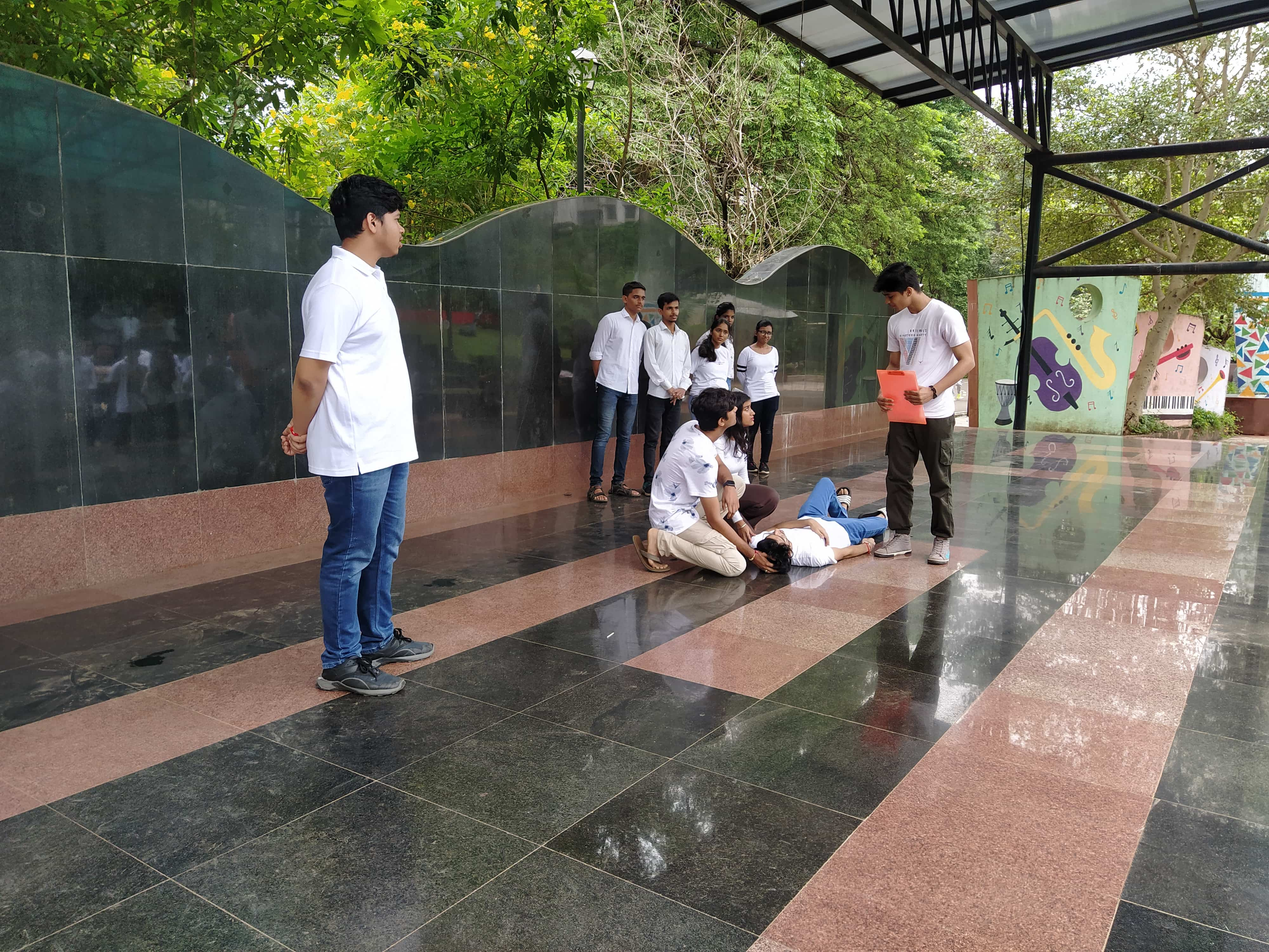
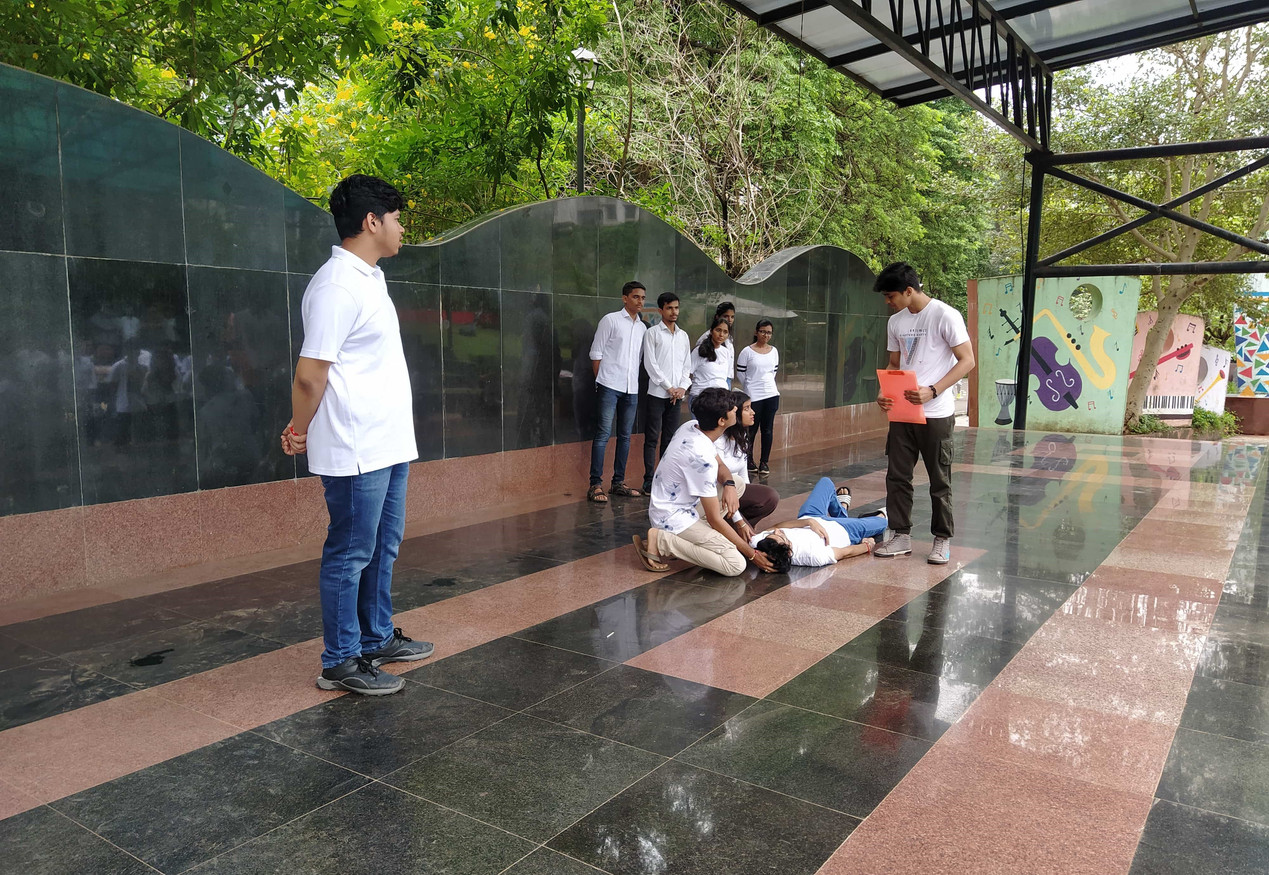
resized images

diff --git a/src/assets/projects/index.js b/src/assets/projects/index.js
@@ -275,7 +275,8 @@ const Images = {
   PubAwareness: require("./procard_Public Awareness Campaign 01 (Society).jpg"),
   NukkNatak: [],
   Poshan: require("./Poshandaan_camp(2).jpeg"),
-  HarGhar: require("./Har ghar Tiranga.jpg"),
+  HarGhar: require("./Har ghar Tiranga1.jpg"),
+  // HarGhar: require("./Har ghar Tiranga.jpg"),
   B2Streets: require("./procard_Books To Street (Society) 01.jpg"),
   ElectricityConservation: require("./Electricity conservation (Society) 03.jpg"),
   EcoHarbour: [],

diff --git a/src/styles/projects/display.css b/src/styles/projects/display.css
@@ -270,6 +270,7 @@
     width: 100%;
     height: 40%;
     object-fit: cover;
+    object-position: center;
     border-radius: 20px 20px  0 0;
 }
 .minor-modal-text {
